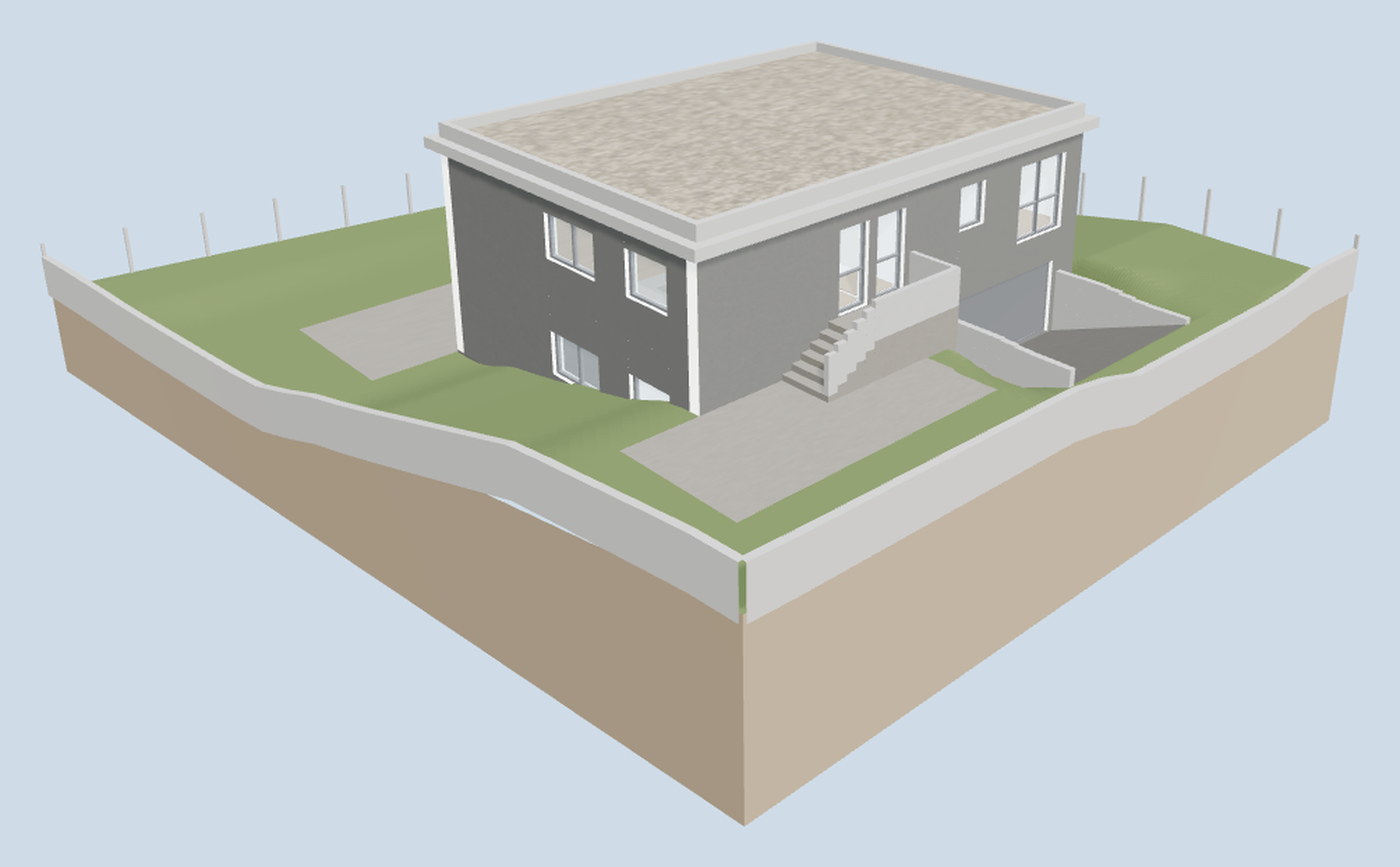
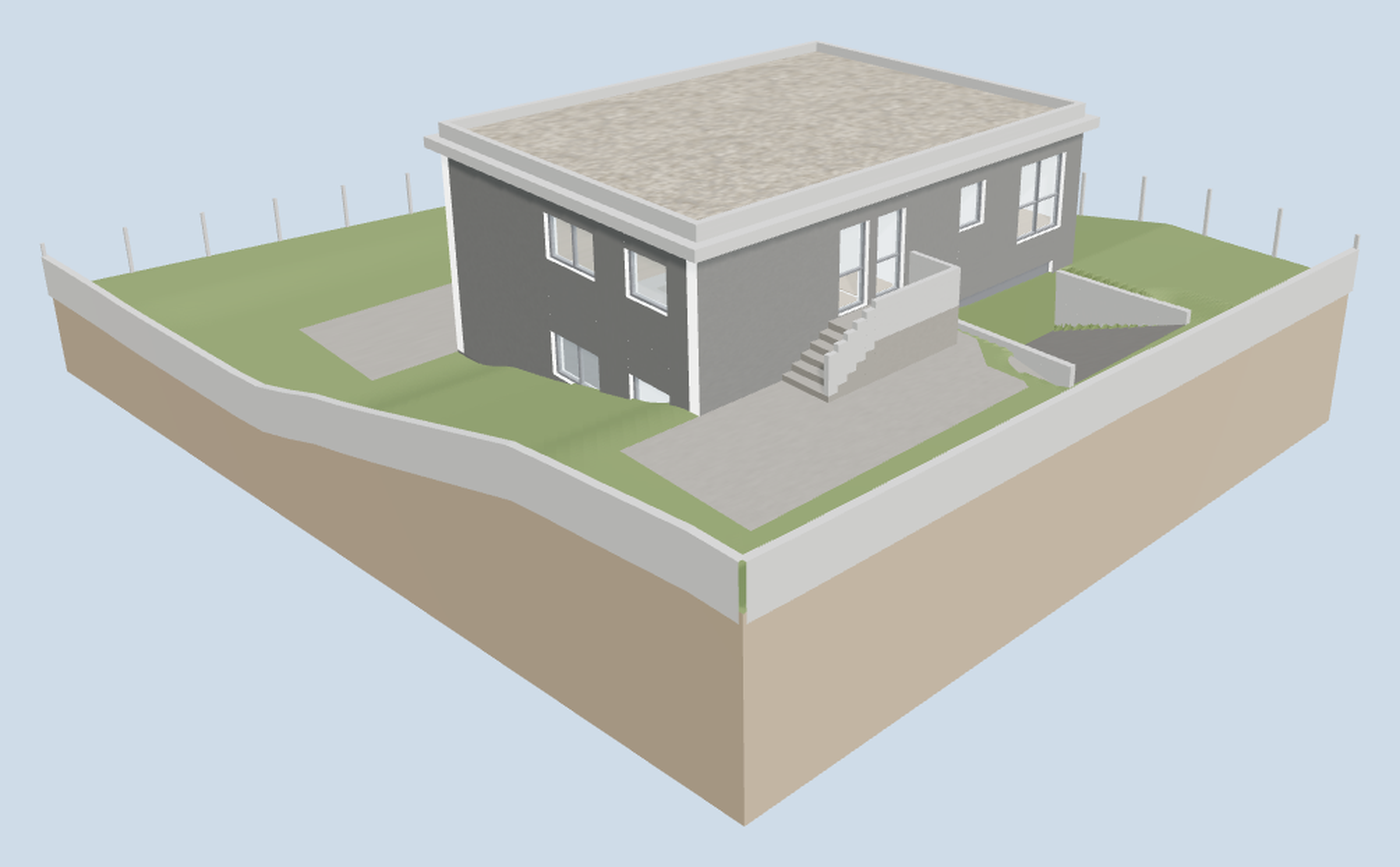
Fix what an adversarial review of the source turned up
The serious one: the slab over the basement was a solid 14 x 10.5 box, so the
staircase ran into its underside and the two floors never actually connected.
It is now emitted as four pieces around the stairwell void.

- The basement laundry "door" sat outside its own wall's extent, which left a
  2 mm sliver of wall hanging in the air and a full-height 0.9 m gap. The wall
  simply stops short of the stair core; that gap is the way in, so the opening
  is gone.
- The driveway cut blended 1.6 m sideways and won over everything, bulldozing
  the last stretch of the entrance terrace into a 42-degree batter and leaving
  the retaining walls retaining nothing. The cut is now held tight between its
  own walls and never reaches back behind the facade.
- Isolating a floor left the other floor's windows hanging in mid-air; glazing
  is now split per level and hides with it.
- The ground skirt was built from the six plot corners while the surface is
  sampled per vertex, so the two disagreed by up to a metre. The skirt now
  follows the same samples.
- buildWall now clamps openings to their wall, so a mistyped coordinate
  degrades quietly instead of walling up the opening before it.
- The entrance pillar and the two Atrio wardrobes were duplicates of geometry
  the walls already emit, and their coplanar faces flickered.

Viewer: walk mode now collides with the boundary and retaining walls; the walk
button releases focus so Space does not throw you back out; jumping to a room
[…]

diff --git a/src/scene/builder.ts b/src/scene/builder.ts
@@ -41,7 +41,9 @@ export interface HouseParts {
   slabOverGround: THREE.Object3D
   /** Structural slab over the basement. */
   slabOverCave: THREE.Object3D
-  glazing: THREE.Group
+  /** Windows and doors, split by level so they hide with their floor. */
+  glazingCave: THREE.Group
+  glazingGround: THREE.Group
   site: THREE.Group
   stairs: THREE.Group
 }
@@ -121,8 +123,10 @@ function buildWall(wall: Wall, lib: MaterialLibrary): THREE.Group {
 
   let cursor = wall.from
   for (const o of openings) {
-    const from = Math.max(o.from, wall.from)
-    const to = Math.min(o.to, wall.to)
+    // Clamp to the wall and skip anything already covered, so an opening that overruns its
+    // wall (or overlaps its neighbour) degrades quietly instead of walling up the one before it.
+    const from = Math.min(Math.max(o.from, cursor), wall.to)
+    const to = Math.min(Math.max(o.to, from), wall.to)
     if (to <= cursor) continue
 
     // Pier before the opening
@@ -210,10 +214,31 @@ function buildGlazing(wall: Wall, o: Opening, lib: MaterialLibrary): THREE.Group
 
 interface Slabs {
   raft: THREE.Mesh
-  /** Basement ceiling / ground floor structure. */
-  overCave: THREE.Mesh
+  /** Basement ceiling / ground floor structure, with the stairwell void in it. */
+  overCave: THREE.Group
   /** Ground floor ceiling / roof structure. */
   overGround: THREE.Mesh
+}
+
+/**
+ * The footprint minus one rectangular void, as four rectangles. Used to build a slab with a
+ * stairwell opening in it without reaching for CSG.
+ */
+function slabPiecesAround(
+  hx0: number,
+  hy0: number,
+  hx1: number,
+  hy1: number,
+): Array<[number, number, number, number]> {
+  const W = SIZE.width - 0.02
+  const D = SIZE.depth - 0.02
+  const o = 0.01
+  return [
+    [o, o, W, hy0], // rear of the void
+    [o, hy1, W, D], // front of the void
+    [o, hy0, hx0, hy1], // left of it
+    [hx1, hy0, W, hy1], // right of it
+  ]
 }
 
 function buildSlabs(lib: MaterialLibrary): Slabs {
@@ -230,9 +255,16 @@ function buildSlabs(lib: MaterialLibrary): Slabs {
     SIZE.depth / 2,
   )
 
-  // The deep transfer slab that spans the column-free garage below.
+  // The deep transfer slab that spans the column-free garage below — with the stairwell
+  // punched out of it, or the two floors would never connect.
   const gfThick = LEVELS.groundFloor - LEVELS.caveCeiling
-  const overCave = mesh(box(W, gfThick, D), lib.get('ceiling'), SIZE.width / 2, LEVELS.caveCeiling + gfThick / 2, SIZE.depth / 2)
+  const overCave = new THREE.Group()
+  overCave.name = 'slab-over-cave'
+  for (const [x0, y0, x1, y1] of slabPiecesAround(STAIR.x0, STAIR.y0, STAIR.x1, STAIR.y1)) {
+    overCave.add(
+      mesh(box(x1 - x0, gfThick, y1 - y0), lib.get('ceiling'), (x0 + x1) / 2, LEVELS.caveCeiling + gfThick / 2, (y0 + y1) / 2),
+    )
+  }
 
   // The 0.15 m void between the finished ceiling and the roof soffit.
   const voidThick = LEVELS.roofSoffit - LEVELS.groundCeiling
@@ -527,10 +559,21 @@ function buildGround(lib: MaterialLibrary): THREE.Group {
   for (let i = 0; i < PLOT.length; i++) {
     const [x0, y0] = PLOT[i]
     const [x1, y1] = PLOT[(i + 1) % PLOT.length]
-    const h0 = groundAt(x0, y0)
-    const h1 = groundAt(x1, y1)
-    skirt.push(x0, h0, y0, x0, base, y0, x1, h1, y1)
-    skirt.push(x1, h1, y1, x0, base, y0, x1, base, y1)
+    // The surface is sampled per vertex, so the skirt has to be too — a straight chord between
+    // the two corners misses it by up to a metre where the ground steps.
+    const steps = Math.max(2, Math.round(Math.hypot(x1 - x0, y1 - y0) / 1.0))
+    for (let k = 0; k < steps; k++) {
+      const ta = k / steps
+      const tb = (k + 1) / steps
+      const ax = x0 + (x1 - x0) * ta
+      const ay = y0 + (y1 - y0) * ta
+      const bx = x0 + (x1 - x0) * tb
+      const by = y0 + (y1 - y0) * tb
+      const ha = groundAt(ax, ay)
+      const hb = groundAt(bx, by)
+      skirt.push(ax, ha, ay, ax, base, ay, bx, hb, by)
+      skirt.push(bx, hb, by, ax, base, ay, bx, base, by)
+    }
   }
   const sgeo = new THREE.BufferGeometry()
   sgeo.setAttribute('position', new THREE.Float32BufferAttribute(skirt, 3))
@@ -603,7 +646,7 @@ function buildSite(lib: MaterialLibrary): THREE.Group {
     g.add(m)
   }
 
-  pave(-2.2, SIZE.depth, 8.0, 14.2, paveMat) // entrance terrace
+  pave(-2.2, SIZE.depth, 7.6, 14.6, paveMat) // entrance terrace
   pave(-2.6, -4.4, 16.8, 0, paveMat) // rear yard
   pave(DRIVEWAY.x0, DRIVEWAY.yBottom, DRIVEWAY.x1, DRIVEWAY.yTop, lib.get('driveway'))
 
@@ -687,23 +730,25 @@ export function buildHouse(lib: MaterialLibrary): HouseParts {
   const root = new THREE.Group()
   const cave = new THREE.Group()
   const ground = new THREE.Group()
-  const glazing = new THREE.Group()
+  const glazingCave = new THREE.Group()
+  const glazingGround = new THREE.Group()
   cave.name = 'cave'
   ground.name = 'ground'
-  glazing.name = 'glazing'
+  glazingCave.name = 'glazing-cave'
+  glazingGround.name = 'glazing-ground'
 
   for (const w of CAVE_WALLS) {
     cave.add(buildWall(w, lib))
     for (const o of w.openings ?? []) {
       const gz = buildGlazing(w, o, lib)
-      if (gz) glazing.add(gz)
+      if (gz) glazingCave.add(gz)
     }
   }
   for (const w of GROUND_WALLS) {
     ground.add(buildWall(w, lib))
     for (const o of w.openings ?? []) {
       const gz = buildGlazing(w, o, lib)
-      if (gz) glazing.add(gz)
+      if (gz) glazingGround.add(gz)
     }
   }
 
@@ -721,7 +766,7 @@ export function buildHouse(lib: MaterialLibrary): HouseParts {
   const stairs = buildStairs(lib)
   const site = buildSite(lib)
 
-  root.add(cave, ground, slabs.overCave, slabs.overGround, roof, glazing, stairs, site)
+  root.add(cave, ground, slabs.overCave, slabs.overGround, roof, glazingCave, glazingGround, stairs, site)
   root.name = 'house'
 
   return {
@@ -731,7 +776,8 @@ export function buildHouse(lib: MaterialLibrary): HouseParts {
     roof,
     slabOverCave: slabs.overCave,
     slabOverGround: slabs.overGround,
-    glazing,
+    glazingCave,
+    glazingGround,
     site,
     stairs,
   }

diff --git a/src/main.ts b/src/main.ts
@@ -23,8 +23,16 @@ viewer.scene.add(parts.root)
 
 const params = new URLSearchParams(location.search)
 
+/** Parameters that are applied once at load and are not controls; carried through verbatim. */
+const PASSTHROUGH = ['view', 'cam', 'at', 'ui'] as const
+
 function writeUrl() {
   const p = new URLSearchParams()
+  for (const key of PASSTHROUGH) {
+    const v = params.get(key)
+    if (v !== null) p.set(key, v)
+  }
+  if (!labelsOn) p.set('labels', '0')
   if (floorMode !== 'all') p.set('floor', floorMode)
   if (!roofOn) p.set('roof', '0')
   if (lib.current.id !== AS_SPECIFIED.id) p.set('scheme', lib.current.id)
@@ -43,6 +51,10 @@ let roofOn = true
 function applyVisibility() {
   parts.cave.visible = floorMode !== 'ground'
   parts.ground.visible = floorMode !== 'cave'
+  // Glazing lives outside the floor groups, so it has to be told separately — otherwise
+  // isolating a floor leaves the other one's windows hanging in mid-air.
+  parts.glazingCave.visible = parts.cave.visible
+  parts.glazingGround.visible = parts.ground.visible
   // Looking at one floor means looking down into it, so everything above it has to go:
   // the roof build-up, the slab it sits on, and — for the basement — the floor above.
   const open = floorMode !== 'all' || !roofOn
@@ -111,7 +123,7 @@ function lookDownOn(level: Level) {
 // bump into. Both are raycast against the real geometry, so nothing is described twice.
 viewer.setWalkGeometry(
   [parts.cave, parts.ground, parts.slabOverCave, parts.stairs, parts.site],
-  [parts.cave, parts.ground, parts.glazing],
+  [parts.cave, parts.ground, parts.glazingCave, parts.glazingGround, parts.site],
 )
 
 const walkBtn = $<HTMLButtonElement>('#walk')
@@ -132,7 +144,11 @@ function setWalk(on: boolean) {
   }
 }
 
-walkBtn.addEventListener('click', () => setWalk(viewer.cameraMode !== 'walk'))
+walkBtn.addEventListener('click', () => {
+  setWalk(viewer.cameraMode !== 'walk')
+  // Otherwise the button keeps focus and the first Space or Enter throws you back out.
+  walkBtn.blur()
+})
 addEventListener('keydown', (e) => {
   if (e.key === 'Escape' && viewer.cameraMode === 'walk') setWalk(false)
 })
@@ -187,7 +203,16 @@ const roomList = $('#rooms')
 ROOMS.filter((r) => r.area).forEach((r, i) => {
   const li = document.createElement('li')
   li.dataset.idx = String(i)
-  li.innerHTML = `<span>${r.name} <span class="lvl">${r.level === 'cave' ? 'basement' : 'ground'}</span></span><span class="area">${r.area}</span>`
+  const label = document.createElement('span')
+  label.append(r.name + ' ')
+  const lvl = document.createElement('span')
+  lvl.className = 'lvl'
+  lvl.textContent = r.level === 'cave' ? 'basement' : 'ground'
+  label.append(lvl)
+  const area = document.createElement('span')
+  area.className = 'area'
+  area.textContent = r.area
+  li.append(label, area)
   // The printed figure against what the modelled rectangles actually measure.
   li.title = `${r.original} · drawing ${r.area} · model ${roomArea(r).toFixed(1)} m²`
   li.addEventListener('click', () => {
@@ -198,6 +223,7 @@ ROOMS.filter((r) => r.area).forEach((r, i) => {
     floorMode = r.level
     for (const b of $('#floors').querySelectorAll('button')) b.classList.toggle('on', b.dataset.floor === r.level)
     applyVisibility()
+    writeUrl()
   })
   roomList.append(li)
 })
@@ -213,7 +239,11 @@ document.body.append(labelLayer)
 const labels = ROOMS.filter((r) => r.area).map((r) => {
   const el = document.createElement('div')
   el.className = 'room-label'
-  el.innerHTML = `<b>${r.name}</b><i>${r.area}</i>`
+  const strong = document.createElement('b')
+  strong.textContent = r.name
+  const em = document.createElement('i')
+  em.textContent = r.area
+  el.append(strong, em)
   labelLayer.append(el)
   const [cx, cy] = roomCentre(r)
   return {
@@ -226,6 +256,7 @@ const labels = ROOMS.filter((r) => r.area).map((r) => {
 let labelsOn = true
 $<HTMLInputElement>('#labels-on').addEventListener('change', (e) => {
   labelsOn = (e.target as HTMLInputElement).checked
+  writeUrl()
 })
 
 const projected = new THREE.Vector3()
@@ -259,8 +290,11 @@ viewer.onTick(() => {
 const levelsEl = $('#levels')
 for (const l of SPOT_LEVELS) {
   const li = document.createElement('li')
-  const v = (l.z >= 0 ? '+' : '−') + Math.abs(l.z).toFixed(2)
-  li.innerHTML = `<b>${v}</b><span>${l.note}</span>`
+  const v = document.createElement('b')
+  v.textContent = (l.z >= 0 ? '+' : '−') + Math.abs(l.z).toFixed(2)
+  const note = document.createElement('span')
+  note.textContent = l.note
+  li.append(v, note)
   levelsEl.append(li)
 }
 
@@ -307,9 +341,10 @@ if (params.get('roof') === '0') {
 applyVisibility()
 
 // `?cam=x,y,z&at=x,y,z` places the camera exactly, for linking to a specific view.
-const camParam = params.get('cam')?.split(',').map(Number)
+const rawCam = params.get('cam')?.split(',').map(Number)
+const camParam = rawCam?.length === 3 && rawCam.every(Number.isFinite) ? rawCam : undefined
 const atParam = params.get('at')?.split(',').map(Number)
-if (camParam?.length === 3 && camParam.every(Number.isFinite)) {
+if (camParam) {
   viewer.camera.position.set(camParam[0], camParam[1], camParam[2])
   if (atParam?.length === 3 && atParam.every(Number.isFinite)) {
     viewer.controls.target.set(atParam[0], atParam[1], atParam[2])

diff --git a/src/model/house.ts b/src/model/house.ts
@@ -191,7 +191,8 @@ export const GROUND_WALLS: Wall[] = [
     thickness: SIZE.wallExt,
     exterior: true,
     openings: [
-      // The entrance is a 2.30 m recess split by a 0.30 m pillar into two 1.00 m bays.
+      // The entrance is a 2.30 m recess split into two 1.00 m bays by a 0.30 m pillar — which
+      // is just the pier the wall leaves between these two openings.
       { from: 4.353, to: 5.353, sill: LEVELS.groundFloor, head: G_HEAD, kind: 'entrance', label: 'Front door' },
       // The kitchen never reaches the front wall; this leaf lights the stair hall.
       { from: 5.653, to: 6.653, sill: LEVELS.groundFloor, head: G_HEAD, kind: 'french', label: 'Entrance hall' },
@@ -292,8 +293,6 @@ export const GROUND_WALLS: Wall[] = [
   // Stair core — the west wall of the stairwell, hatched on the plan
   { id: 'g-p14', level: 'ground', run: 'y', at: 5.503, from: 5.201, to: 8.851, thickness: SIZE.wallInt },
 
-  // The pillar that splits the entrance recess — 0.30 × 0.31, standing off the inner face.
-  { id: 'g-pillar', level: 'ground', run: 'y', at: 5.503, from: 10.151, to: 10.461, thickness: 0.3 },
 ]
 
 // ─────────────────────────────────────────────────────────────────────────────
@@ -356,16 +355,9 @@ export const CAVE_WALLS: Wall[] = [
   },
 
   // Laundry / wc block against the left wall
-  {
-    id: 'c-p1',
-    level: 'cave',
-    run: 'x',
-    at: 7.601,
-    from: 0.35,
-    to: 4.553,
-    thickness: SIZE.wallInt,
-    openings: [caveDoor(4.551, 5.351, 'Laundry')],
-  },
+  // The laundry wall stops 0.90 m short of the stair core; that gap is the way in, so there is
+  // no door in the wall itself.
+  { id: 'c-p1', level: 'cave', run: 'x', at: 7.601, from: 0.35, to: 4.553, thickness: SIZE.wallInt },
   { id: 'c-p2', level: 'cave', run: 'y', at: 1.902, from: 7.601, to: 10.151, thickness: SIZE.wallInt },
 
   // Stair core
@@ -524,9 +516,6 @@ export const FIXTURES: Fixture[] = [
   { level: 'ground', kind: 'hob', x0: 1.702, y0: 9.601, x1: 2.202, y1: 10.101, h: 0.02, base: 0.9 },
   { level: 'ground', kind: 'wardrobe', x0: 2.952, y0: 7.651, x1: 3.652, y1: 8.551, h: 2.2, label: 'larder' },
   { level: 'ground', kind: 'wardrobe', x0: 2.952, y0: 8.551, x1: 3.552, y1: 9.551, h: 2.2 },
-  // ── Átrio ─────────────────────────────────────────────────────────────────
-  { level: 'ground', kind: 'wardrobe', x0: 3.752, y0: 7.651, x1: 3.952, y1: 8.951, h: 2.2 },
-  { level: 'ground', kind: 'wardrobe', x0: 3.652, y0: 8.951, x1: 3.952, y1: 10.151, h: 2.2 },
   // ── Quartos (built-in wardrobes against the party partition) ──────────────
   { level: 'ground', kind: 'wardrobe', x0: 8.853, y0: 0.35, x1: 9.554, y1: 2.65, h: 2.2 },
   { level: 'ground', kind: 'wardrobe', x0: 9.654, y0: 0.35, x1: 10.354, y1: 2.65, h: 2.2 },

diff --git a/src/model/site.ts b/src/model/site.ts
@@ -86,9 +86,9 @@ interface Pad {
 
 const PADS: Pad[] = [
   // Entrance terrace across the front of the house, at the foot of the steps
-  { x0: -2.5, y0: 10.4, x1: 8.2, y1: 15.2, z: 0.47, falloff: 2.4, note: 'entrance terrace' },
+  { x0: -2.5, y0: 10.4, x1: 7.6, y1: 15.2, z: 0.47, falloff: 2.0, note: 'entrance terrace' },
   // Apron at the head of the driveway, in front of the garage
-  { x0: 7.8, y0: 13.6, x1: 14.2, y1: 16.2, z: -0.07, falloff: 2.0, note: 'head of the ramp' },
+  { x0: 7.9, y0: 13.9, x1: 13.5, y1: 15.2, z: -0.07, falloff: 1.0, note: 'head of the ramp' },
   // Rear yard, cut down so the basement opens onto it at grade
   { x0: -4.5, y0: -6.5, x1: 18.5, y1: 0.4, z: -1.69, falloff: 2.6, note: 'rear yard' },
 ]
@@ -112,8 +112,11 @@ export const DRIVEWAY = {
   /** Bottom, level with the garage floor, just outside the door. */
   yBottom: 10.501,
   zBottom: LEVELS.caveFloor - 0.05,
-  /** How far to the sides the cut blends back into the ground. */
-  falloff: 1.6,
+  /**
+   * How far the cut blends back into the ground. Deliberately tight: the trench is held by
+   * the retaining walls, so it should not slope out into the terrace beside it.
+   */
+  falloff: 0.45,
 }
 
 /**
@@ -190,9 +193,9 @@ export function groundAt(x: number, y: number): number {
     z = z * (1 - w) + p.z * w
   }
 
-  // Driveway trench
+  // Driveway trench. Only ever cuts downward, and only in front of the façade.
   const d = DRIVEWAY
-  const inBand = distToRect(x, y, d.x0, d.yBottom, d.x1, d.yTop)
+  const inBand = y < d.yBottom ? Infinity : distToRect(x, y, d.x0, d.yBottom, d.x1, d.yTop)
   if (inBand <= d.falloff) {
     const t = Math.min(1, Math.max(0, (y - d.yBottom) / (d.yTop - d.yBottom)))
     const rampZ = d.zBottom + (d.zTop - d.zBottom) * t
